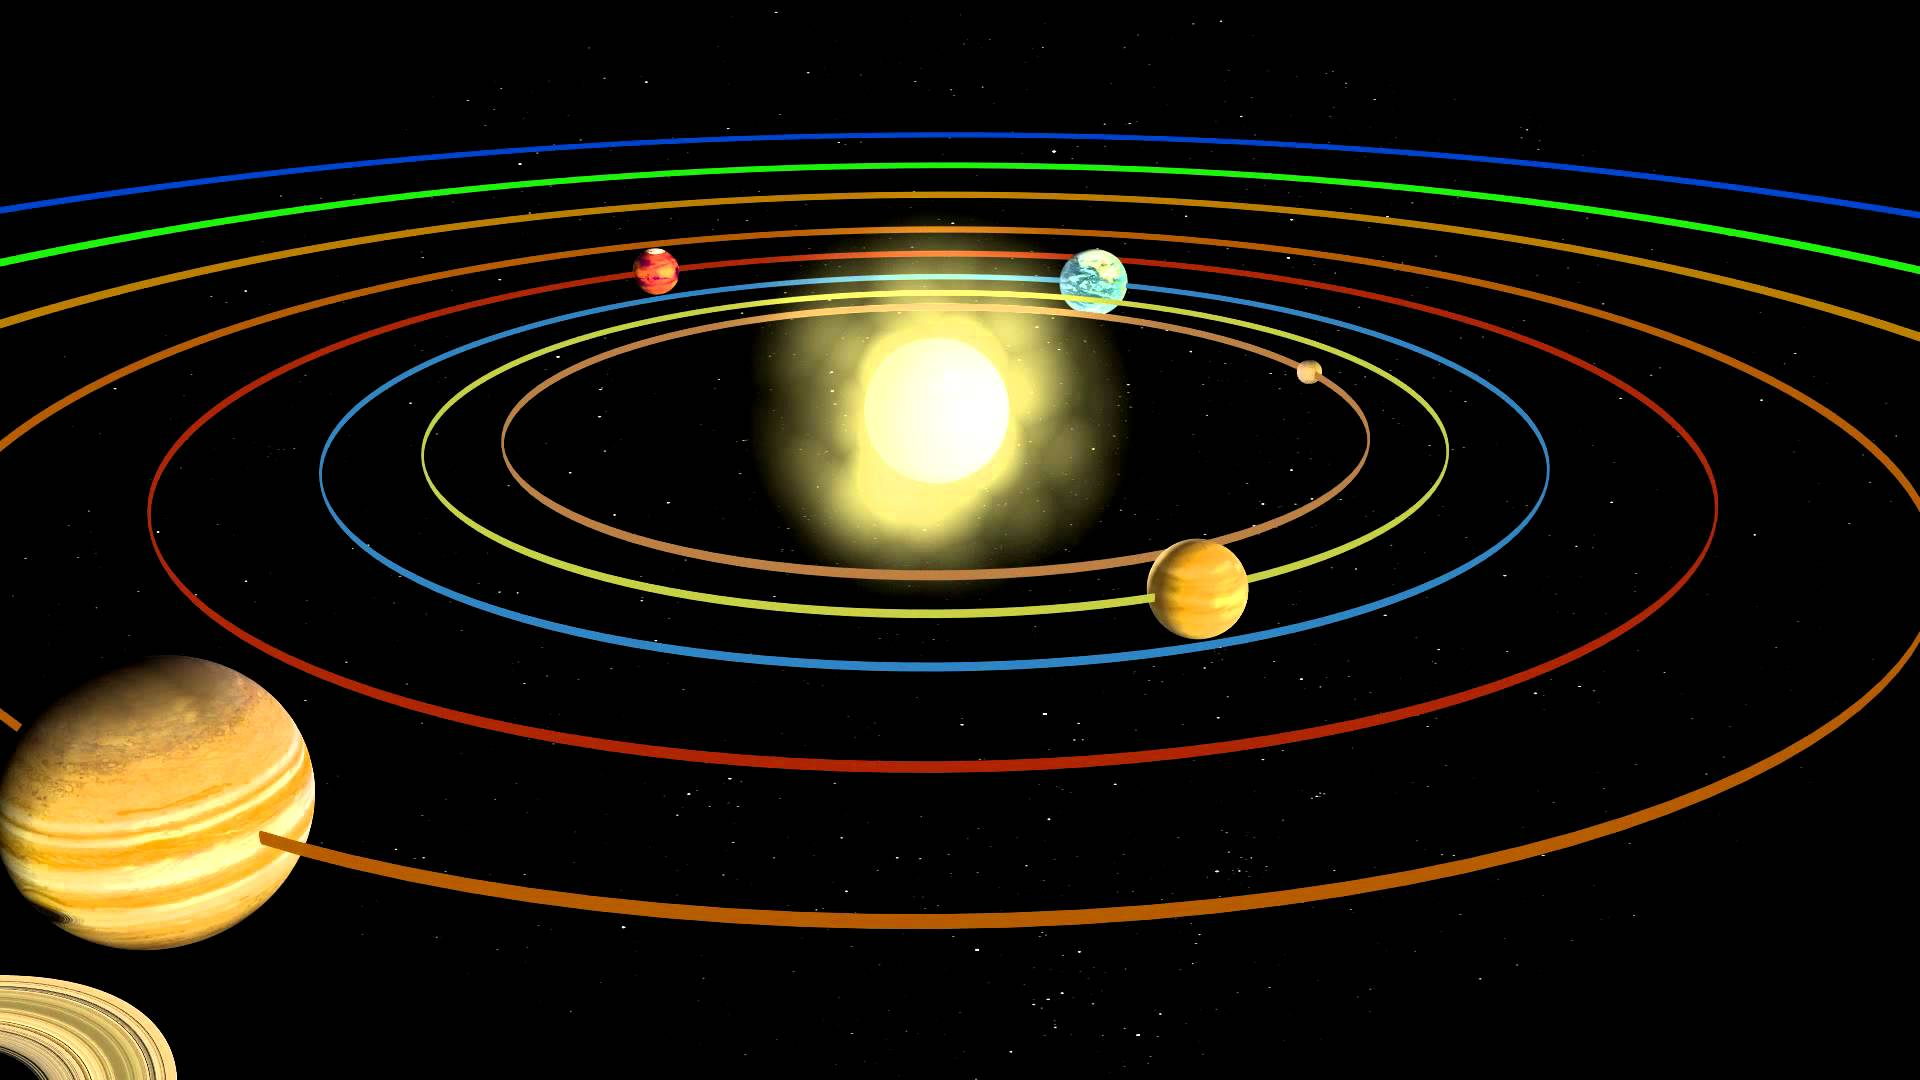
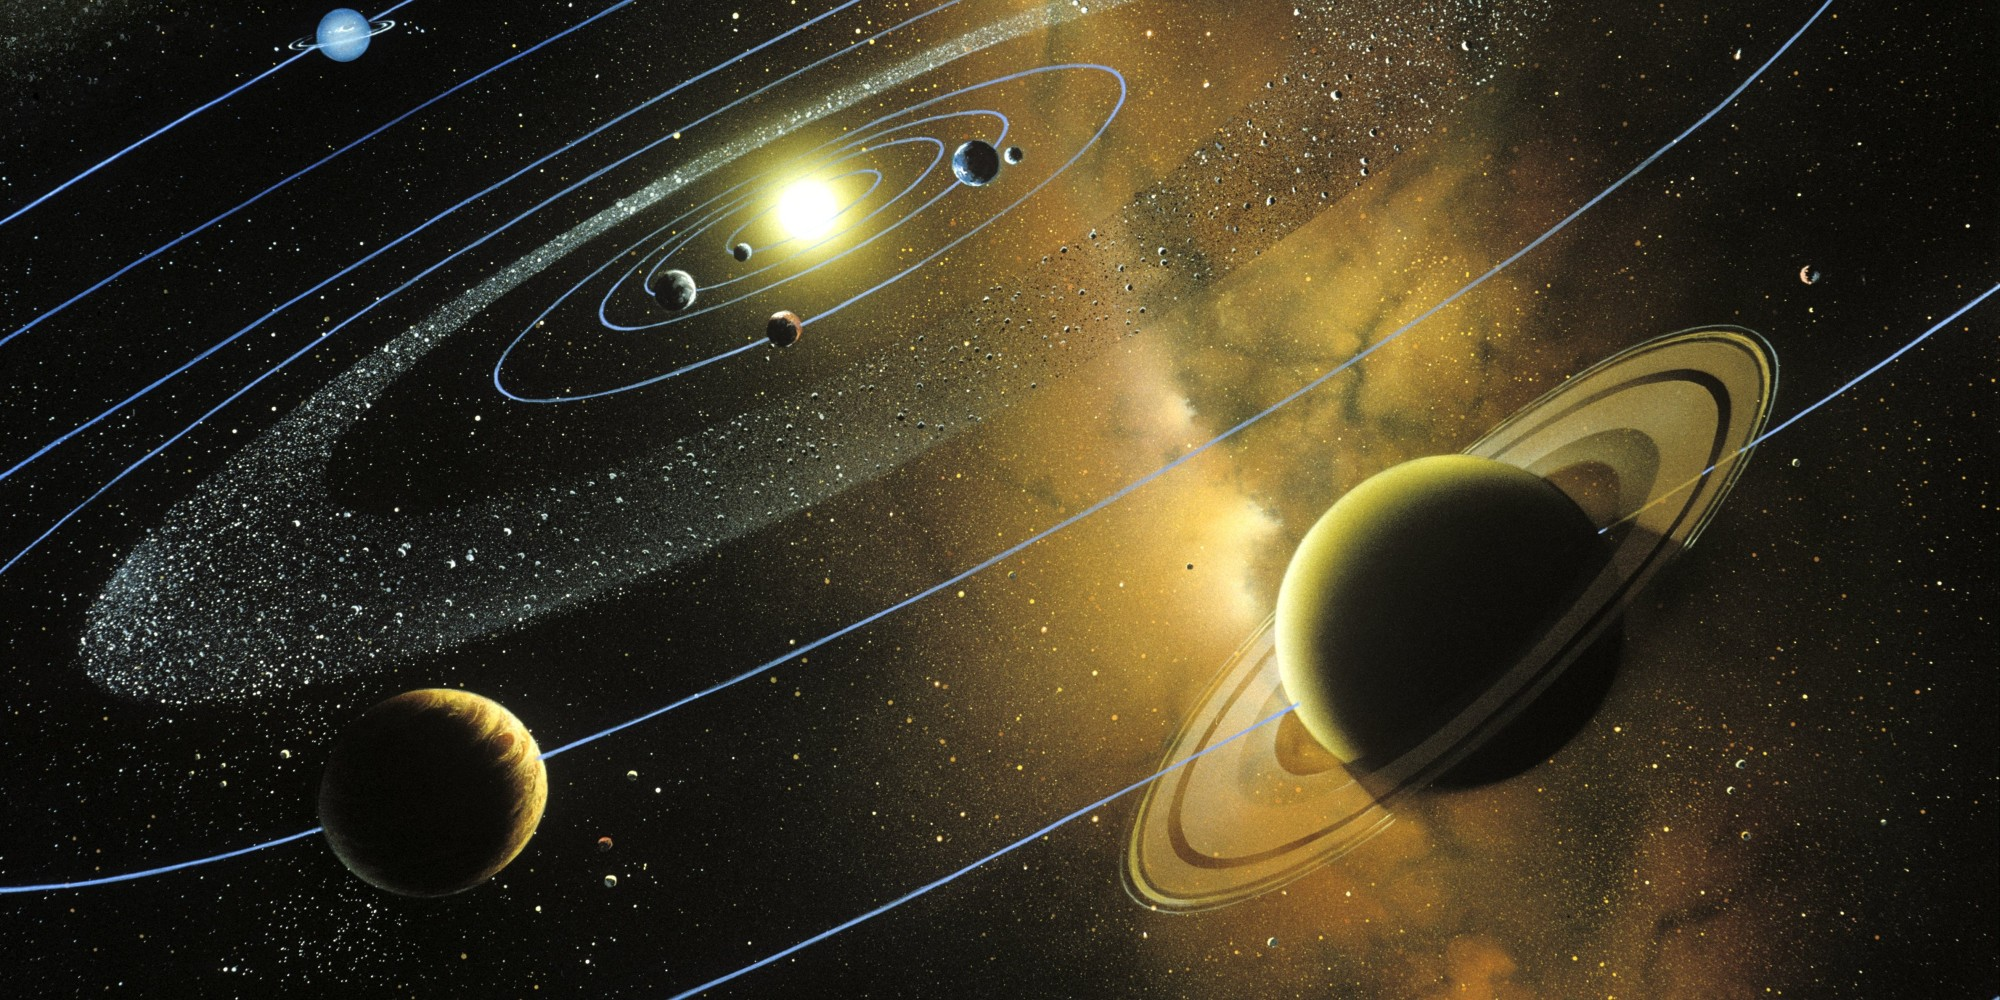
Fix missing links + Update solar system image

diff --git a/2018/ndcsydney/nav-react.md b/2018/ndcsydney/nav-react.md
@@ -79,7 +79,6 @@ NOTES:
 - Favorite team in the NBA is the rockets
 
 =====
-
 <!-- .slide: data-background="url(../../img/nav-react/solar-system.jpg) no-repeat center" data-background-size="cover" -->
 
 NOTES:
@@ -87,9 +86,9 @@ _[5 minutes]_
 
 - Ok, enough about me
 - Let's talk about the React Solar System
+- **Who here considers themselves React newbies?** 
 
 =====
-
 <!-- .slide: data-background="url(../../img/nav-react/sun.jpg) no-repeat center" data-background-size="cover" -->
 
 <div style="display:flex; justify-content: flex-end">
@@ -110,11 +109,11 @@ NOTES:
     <div style="display:flex;align-items:center;justify-content:space-between;">
       <img src="../../img/react/react-logo.png" class="plain" style="width: 45%" />
       <div>
-        <h2><a href="https://facebook.github.io/react/docs/reusable-components.html#stateless-functions">Functional & Reactive</a></h2>
-        <h2><a href="https://facebook.github.io/react/docs/interactivity-and-dynamic-uis.html#components-are-just-state">Uni-directional</a></h2>
-        <h2><a href="https://facebook.github.io/react/docs/jsx-in-depth.html">Declarative JSX</a></h2>
-        <h2><a href="https://facebook.github.io/react/docs/reconciliation.html">"Virtual DOM"</a></h2>
-        <h2><a href="https://facebook.github.io/react/docs/top-level-api.html">Narrow API</a></h2>
+        <h2><a href="https://reactjs.org/docs/components-and-props.html#functional-and-class-components">Functional & Reactive</a></h2>
+        <h2><a href="https://reactjs.org/docs/state-and-lifecycle.html#the-data-flows-down">Uni-directional</a></h2>
+        <h2><a href="https://reactjs.org/docs/jsx-in-depth.html">Declarative JSX</a></h2>
+        <h2><a href="https://reactjs.org/docs/reconciliation.html">"Virtual DOM"</a></h2>
+        <h2><a href="https://reactjs.org/docs/react-api.html">Narrow API</a></h2>
       </div>
     </div>
   </div>
@@ -419,7 +418,7 @@ NOTES:
       </div>
       <div style="flex:0 0 25%;">
         <a href="http://requirejs.org/" target="_blank"><img src="../../img/nav-react/requirejs-logo.png" class="plain" /></a>
-        <a href="http://requirejs.org/" target="_blank">RequireJS</a> (no!)
+        <a href="http://requirejs.org/" target="_blank" style="text-decoration: line-through">RequireJS</a>
       </div>
     </div>
   </div>
@@ -656,12 +655,12 @@ NOTES:
     <h2>Tooling resources</h2>
 
     <ul>
-      <li><a href="https://facebook.github.io/react/blog/2016/07/22/create-apps-with-no-configuration.html" target="_blank">Create React App</a></li>
+      <li><a href="https://github.com/facebook/create-react-app" target="_blank">Create React App</a></li>
       <li><a href="https://github.com/creationix/nvm" target="_blank">Node Version Manager</a></li>
       <li><a href="https://github.com/sindresorhus/awesome-npm" target="_blank">Awesome npm resources and tips</a></li>
       <li><a href="https://blog.risingstack.com/yarn-vs-npm-node-js-package-managers/" target="_blank">Yarn vs NPM</a></li>
-      <li><a href="https://webpack.github.io/docs/webpack-dev-server.html" target="_blank">`webpack-dev-server`</a></li>
-      <li><a href="https://flowtype.org/docs/react.html" target="_blank">Flow + React</a></li>
+      <li><a href="https://webpack.js.org/configuration/dev-server/" target="_blank">`webpack-dev-server`</a></li>
+      <li><a href="https://flow.org/en/docs/react/" target="_blank">Flow + React</a></li>
       <li><a href="https://www.typescriptlang.org/docs/handbook/react-&-webpack.html" target="_blank">TypeScript & React</a></li>
     </ul>
   </div>
@@ -917,8 +916,8 @@ NOTES:
         <a href="https://emotion.sh/" target="_blank">Emotion</a>
       </div>
       <div style="flex:0 0 24%;">
-        <a href="https://github.com/cssinjs/react-jss" target="_blank"><img src="../../img/nav-react/jss-logo.png" class="plain" /></a>
-        <a href="https://github.com/cssinjs/react-jss" target="_blank">JSS</a>
+        <a href="http://cssinjs.org/react-jss/" target="_blank"><img src="../../img/nav-react/jss-logo.png" class="plain" /></a>
+        <a href="http://cssinjs.org/react-jss/" target="_blank">JSS</a>
       </div>
       <div style="flex:0 0 24%;">
         <a href="https://formidable.com/open-source/radium/" target="_blank"><img src="../../img/nav-react/radium-logo.svg" class="plain" /></a>
@@ -998,7 +997,7 @@ NOTES:
     <ul>
       <li><a href="https://medium.com/seek-blog/a-unified-styling-language-d0c208de2660" target="_blank">_A Unified Styling Language_</a></li>
       <li><a href="https://github.com/gajus/react-css-modules" target="_blank">React CSS Modules</a></li>
-      <li><a href="https://react-bootstrap.github.io/" target="_blank">React-Bootstrap</a> / <a href="http://www.material-ui.com/" target="_blank">Material UI</a> / <a href="https://react.foundation/" target="_blank">React + Foundation</a></li>
+      <li><a href="http://www.material-ui.com/" target="_blank">Material UI</a> / <a href="https://react.foundation/" target="_blank">React + Foundation</a> / <a href="https://react-bootstrap.github.io/" target="_blank">React-Bootstrap</a></li>
       <li><a href="https://github.com/JedWatson/classnames" target="_blank">`classnames`</a></li>
       <li><a href="https://polished.js.org/" target="_blank">polished</a></li>
       <li><a href="http://postcss.org/" target="_blank">PostCSS</a></li>
@@ -1189,6 +1188,21 @@ NOTES:
   * Basically built at the same time
   * More or less feature parity
 
+///// 
+
+<!-- .slide: data-background="url(../../img/nav-react/mars.jpg) no-repeat center" data-background-size="cover" -->
+
+<div style="display:flex; justify-content: flex-end">
+  <div class="content-overlay">
+    <h2>Form Resources</h2>
+  
+    <ul>
+      <li><a href="https://reactjs.org/docs/forms.html" target="_blank">Forms in React</a></li>
+      <li><a href="https://github.com/benmvp/react-workshop/tree/master/src/react/05-email-form" target="_blank">React FUNdamentals Workshop - Forms</a></li>
+    </ul>
+  </div>
+</div>
+
 =====
 <!-- .slide: data-background="url(../../img/nav-react/asteroid-belt.jpg) no-repeat center" data-background-size="cover" -->
 
@@ -1312,7 +1326,7 @@ _[42 minutes]_
 - This is called "Isomorphic/Universal React"
 - Rendering the same components server-side improves initial startup performance because content is already there
 - Google includes rendering speed in their ranking algorithm which affects SEO
-- There's also Open Graph previews as well
+- There's also SMO (social media optimization) as well
 - React provides a method that will render the component tree to a string which you can include in server response
 
 /////
@@ -1332,7 +1346,6 @@ _[42 minutes]_
         <a href="https://www.gatsbyjs.org/" style="display:block">Gatsby</a>
       </div>
       <div style="flex:0 0 30%;">
-        <a href="https://expressjs.com/"><img src="../../img/nav-react/express-logo.png" class="plain" /></a>
         <a href="https://expressjs.com/">Express</a>
       </div>
     </div>
@@ -1381,9 +1394,10 @@ NOTES:
     <h2>Server-side Rendering Resources</h2>
   
     <ul>
+      <li><a href="https://github.com/brillout/awesome-ssr" target="_blank">Awesome SSR</a>
       <li><a href="https://github.com/bitinn/node-fetch" target="_blank">`node-fetch`</a> / <a href="https://github.com/matthew-andrews/isomorphic-fetch" target="_blank">`isomorphic-fetch`</a></li>
-      <li><a href="" target="_blank">`react-helmet`</a></li>
-      <li><a href="" target="_blank">///Express alternative///</a></li>
+      <li><a href="https://github.com/nfl/react-helmet" target="_blank">`react-helmet`</a></li>
+      <li><a href="https://koajs.com/" target="_blank">Koa</a></li>
     </ul>
   </div>
 </div>
@@ -1595,7 +1609,7 @@ NOTES:
   })
 
   return (&lt;List item={items} />)
-});</code></pre>
+})</code></pre>
   </div>
 </div>
 
@@ -1612,11 +1626,15 @@ NOTES:
     <h2>API Optimization Resources</h2>
   
     <ul>
-      <li><a href="https://github.com/bitinn/node-fetch" target="_blank">///Learn to GraphQL///</a></li>
+      <li><a href="https://www.howtographql.com/" target="_blank">How to GraphQL</a></li>
       <li><a href="https://github.com/apollographql/apollo-client-devtools" target="_blank">Apollo Client Devtools</a></li>
+      <li><a href="https://github.com/chentsulin/awesome-graphql" target="_blank">Awesome GraphQL</a></li>
     </ul>
   </div>
 </div>
+
+NOTES:
+- How to GraphQL is a full-stack tutorial for GraphQL
 
 =====
 <!-- .slide: data-background="url(../../img/esnext/simon-rae-221560-unsplash.jpg) no-repeat center" data-background-size="cover" -->
